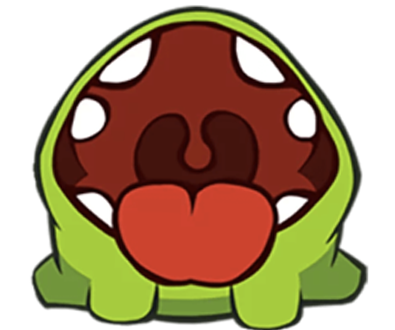
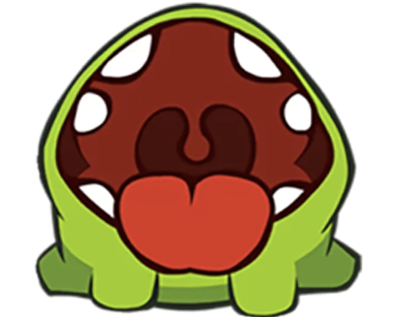
Eating incorrect candy image added

diff --git a/javascript/Character.js b/javascript/Character.js
@@ -6,11 +6,11 @@ class Character {
     this.x = canvas.width/2;
     this.y = canvas.height-this.groundPosition; // se pondrá encima del terreno
     this.img = new Image();
-    this.img.src = "images/character/char-right.png";
+    this.img.src = "images/character/char-idle.png";
     this.speed=8.5
     this.isMovingRight=false
     this.isMovingLeft=false
-    this.walkingRightSpriteFolder="images/character/walking-right/"
+    //this.walkingRightSpriteFolder="images/character/walking-right/"
     this.maxSpritesNum=15
     this.countSprite=1
     this.animating;
@@ -27,6 +27,12 @@ class Character {
     
     this.walkingLeftImg=new Image()
     this.walkingLeftImg.src="images/character/char-left.png"
+
+    this.idleImg=new Image()
+    this.idleImg.src="images/character/char-idle.png"
+
+    this.disgustedImg=new Image()
+    this.disgustedImg.src="images/character/char-disgusted.png"
 
   }
 
@@ -56,13 +62,20 @@ class Character {
 
   stopEat=()=>{
     this.isEating=false
+    this.img=this.idleImg
   }
 
-  startEat=()=>{
+  startEatCrave=()=>{
 
     this.isEating=true
     this.img=this.eatingImg
     setTimeout(this.stopEat,50)
+  }
+
+  startDisgusted=()=>{
+    this.isEating=true
+    this.img=this.disgustedImg
+    setTimeout(this.stopEat,65)
   }
 
 

diff --git a/javascript/Game.js b/javascript/Game.js
@@ -138,7 +138,7 @@ class Game {
         if (isCrave) {
           
 
-          this.character.startEat() // empieza a comer
+          this.character.startEatCrave() // empieza a comer
           audioEating.play()
           this.score += candyScore; // suma la puntuacion de cada caramelo
           if (this.hungerBarUI.value < this.maxHungryBar - candyHungryBar) {
@@ -147,6 +147,7 @@ class Game {
             this.hungerBarUI.value = this.maxHungryBar;
           }
         } else {
+          this.character.startDisgusted()
           audioDisgust.play()
           this.hungerBarUI.value -= candyHungryBar;
         }

diff --git a/javascript/CandyYellow.js b/javascript/CandyYellow.js
@@ -19,7 +19,7 @@ class CandyYellow {
     this.y = 0-this.h;
     this.img = new Image();
     this.img.src = "images/sugar/yellowcandy.png";
-    this.speedFall = 3+speedLevel;
+    this.speedFall = 3.5+speedLevel;
     this.score=15
     this.hungryBar=5
     

diff --git a/javascript/CandyRed.js b/javascript/CandyRed.js
@@ -19,7 +19,7 @@ class CandyRed  {
     this.y = 0-this.h;
     this.img = new Image();
     this.img.src = "images/sugar/redcandy.png";
-    this.speedFall = 3.4+speedLevel;
+    this.speedFall = 4+speedLevel;
     this.score=25
     this.hungryBar=10
     
